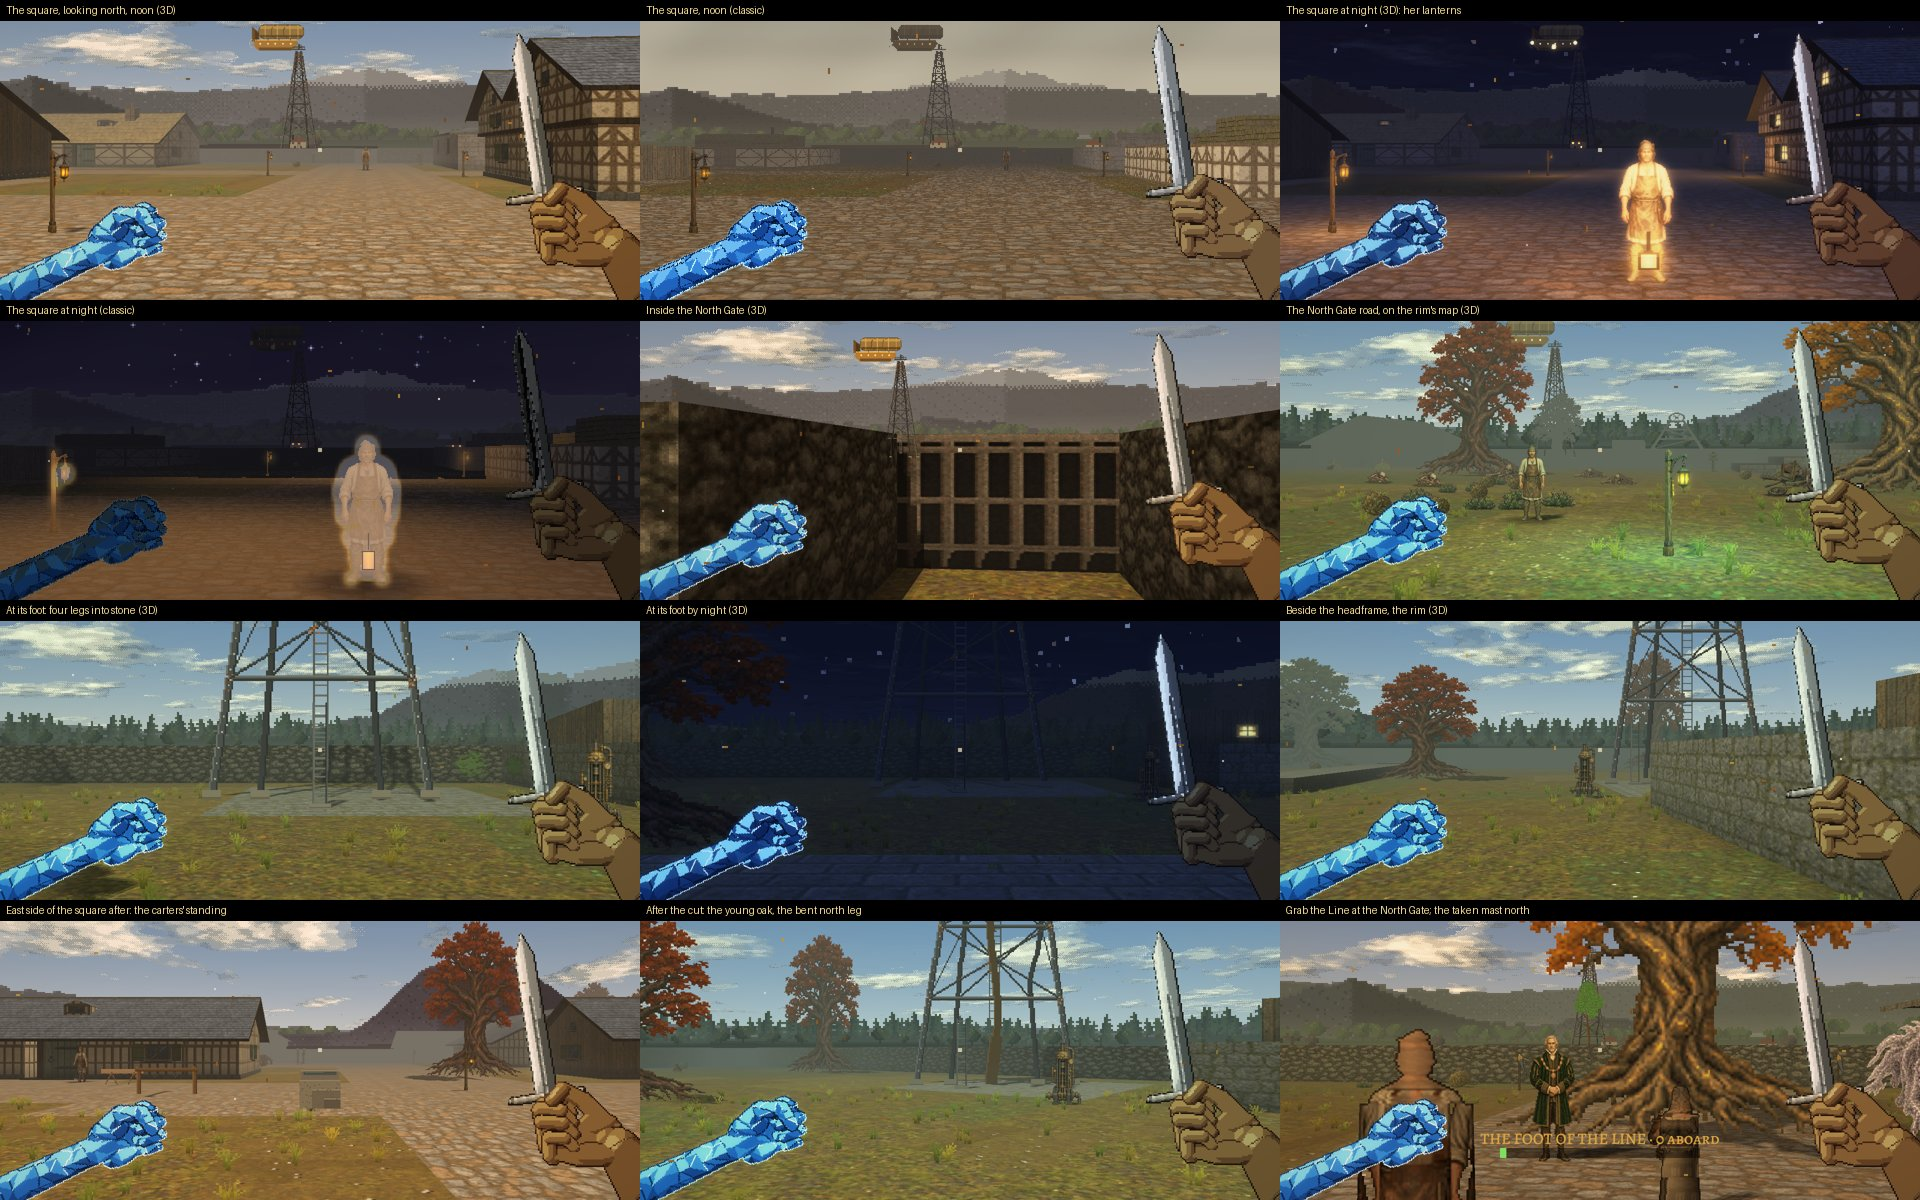
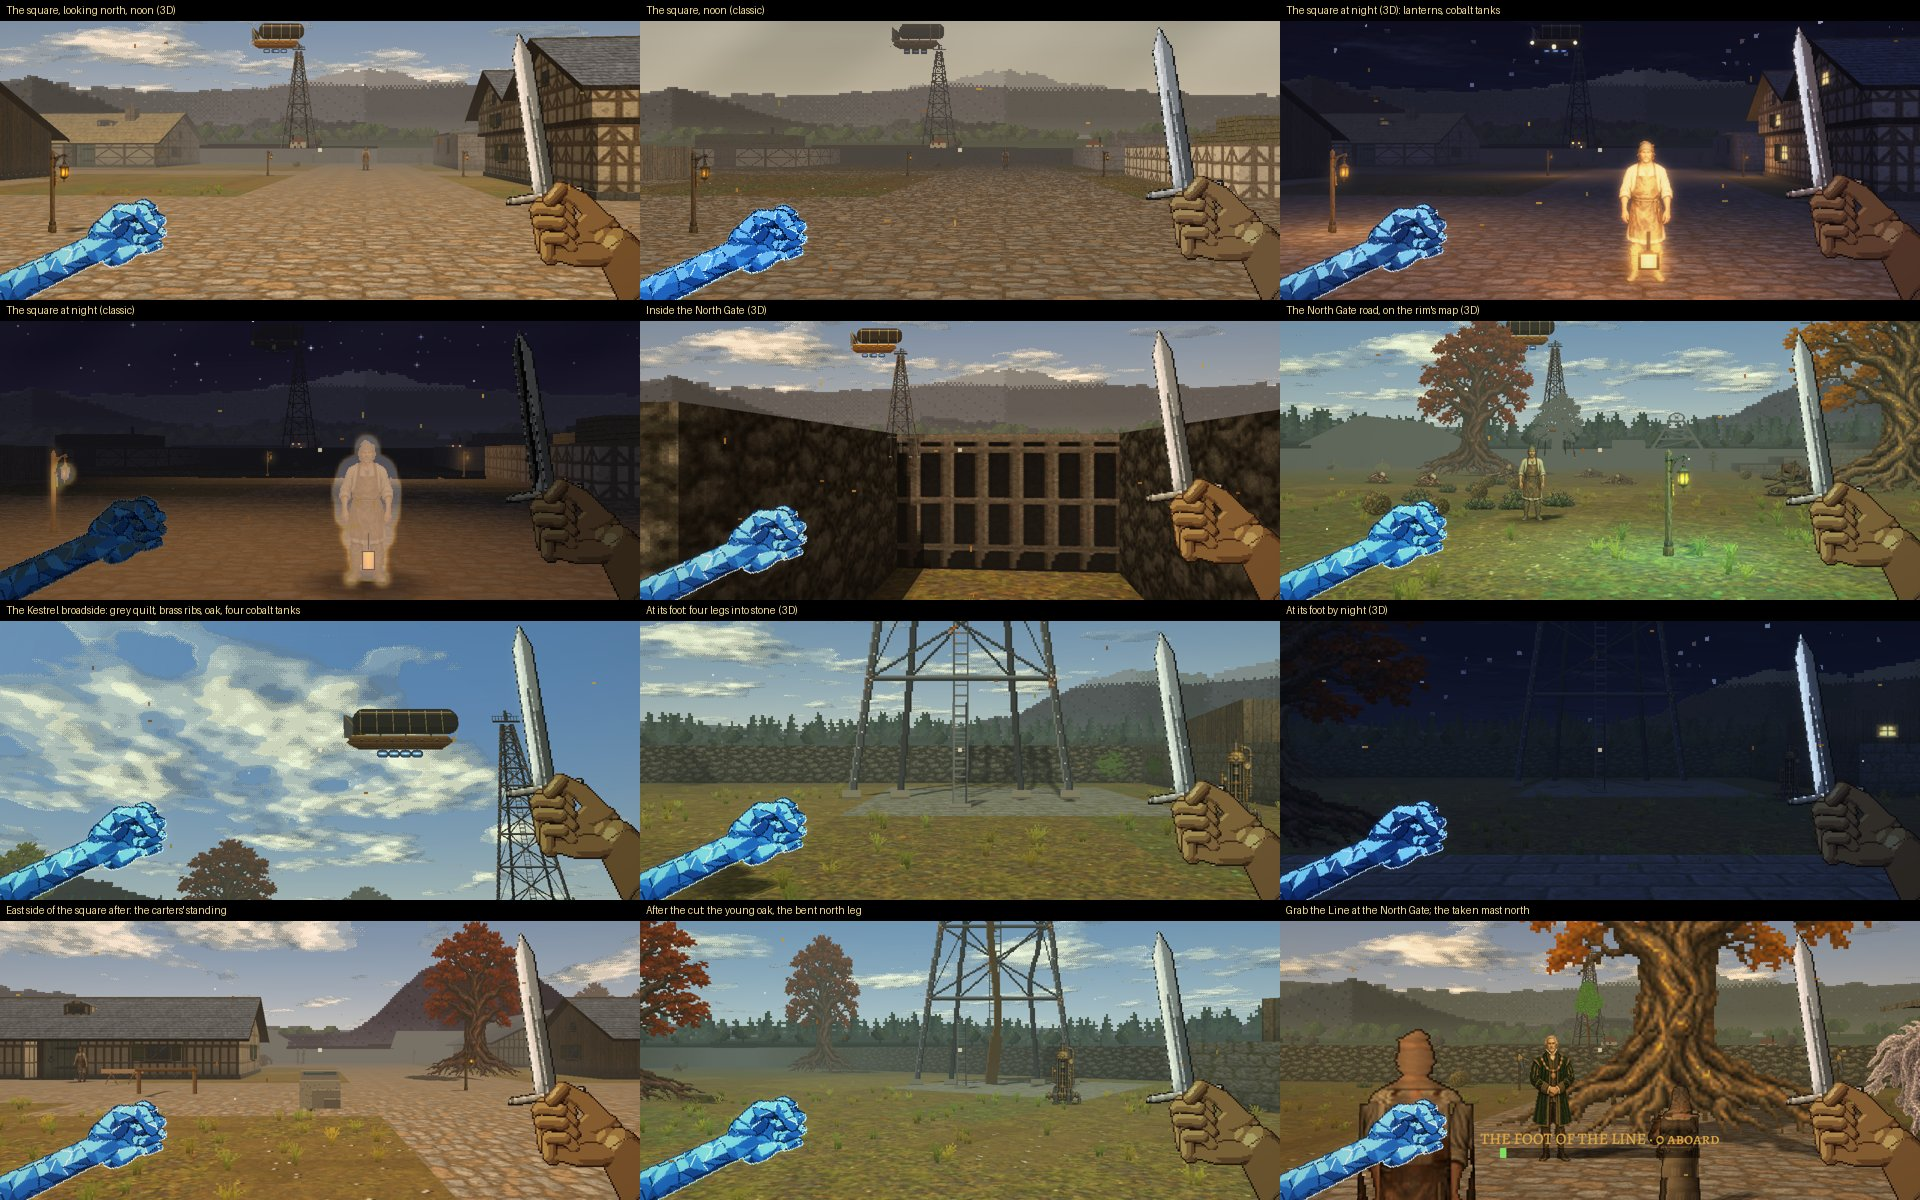
Phase 123: the moored Kestrel to Book One (ll. 674, 1321): a patched grey envelope, brass ribs, oak plank, four cobalt lift-tanks under the keel; the flyover's palette with her; the sheet and record
Claude-Session: https://claude.ai/code/session_01UK584LzooQWiw2H2iZPqku

diff --git a/js/smalllife.js b/js/smalllife.js
@@ -116,45 +116,79 @@ const SMALLLIFE = (() => {
     return out;
   }
   // moored airship, 144x72, bow to the right. view 0 bow-on .. 2 broadside .. 4 stern-on, 1/3 three-quarter.
+  // Book One l. 674: "small for a skyship, sixty feet perhaps, brass-ribbed and oak-planked, with a patched grey envelope
+  // and four lift-tanks slung beneath her keel glowing the faint cobalt of drift-glass"; l. 1321: "a grey sailcloth envelope
+  // that had been patched so often it looked like a quilt" (Phase 123). The quilt's greys come from a hash, never a draw.
   const KV = [{ phi: 90, stern: false }, { phi: 52, stern: false }, { phi: 0, stern: false }, { phi: 52, stern: true }, { phi: 90, stern: true }];
+  const hq = (x, y, s) => { let h = Math.imul(x | 0, 374761393) ^ Math.imul(y | 0, 668265263) ^ Math.imul(s | 0, 1442695041); h = Math.imul(h ^ (h >>> 13), 1274126177); return ((h ^ (h >>> 16)) >>> 0) / 4294967296; };
   function kestrelView(i) {
     const { phi, stern } = KV[i], co = Math.cos(phi * Math.PI / 180), si = Math.sin(phi * Math.PI / 180);
     return paint(144, 72, c => {
-      const cx = 72, TANK = '#7a6844', BAND = '#b09258', DK = '#3d311f', HULL = '#8a6a3a', HULL2 = '#5a4527', BRASS = '#d1ae62', GLOW = '#f1cd78';
+      const cx = 72, DK = '#2c2a28', CANVAS = '#7c7f82', CANVAS2 = '#55585b', OAK = '#6e4c2c', OAK2 = '#4a321d', OAKL = '#86603c', BRASS = '#c9a256', BRASSL = '#ead08a';
+      const COB = '#2f4f8f', COBL = '#5d8fdc', COBC = '#9cc4ff';
       const L = 130 * co + 26 * si;                                             // projected length of the whole ship
       const x0 = cx - L / 2, x1 = cx + L / 2;                                   // stern end .. bow end on screen
       const bowX = x1, sternX = x0;
-      // fins and propeller at the stern (behind the envelope when the bow is toward us)
+      // fins at the stern: grey canvas on brass (behind the envelope when the bow is toward us)
       const finTop = 14, finBot = 44;
       const finA = Math.max(5, 22 * co + 3);
       if (!(stern === false && phi >= 90)) {
-        poly(c, HULL2, [[sternX + finA, finTop + 8], [sternX + 2, finTop - 2], [sternX + 2, finBot - 2], [sternX + finA + 2, finBot]]);
+        poly(c, CANVAS2, [[sternX + finA, finTop + 8], [sternX + 2, finTop - 2], [sternX + 2, finBot - 2], [sternX + finA + 2, finBot]]);
         poly(c, DK, [[sternX + finA, finTop + 12], [sternX + finA * 0.5, finTop + 4], [sternX + finA * 0.5, 40], [sternX + finA, 42]]);
+        line(c, BRASS, sternX + 2, finTop - 2, sternX + finA + 2, finBot, 1);
       }
-      // three lift-tanks in a row along the keel, end caps rounder when seen end-on
+      // the envelope: the same span as ever, one long bag of grey sailcloth, patched like a quilt, with brass ribs over it
       const tankLen = 38 * co + 22 * si, gap = 3 * co;
-      for (let t = 0; t < 3; t++) {
-        const tx = sternX + 14 * co + t * (38 * co + gap) + (tankLen - 38 * co) * 0.5;
-        const w = Math.max(24, tankLen);
-        const px = clamp(tx, 2, 144 - w - 2);
-        c.fillStyle = DK; c.beginPath(); c.roundRect(px - 1, 7, w + 2, 30, 13); c.fill();
-        c.fillStyle = TANK; c.beginPath(); c.roundRect(px, 8, w, 28, 12); c.fill();
-        c.fillStyle = '#9a8656'; c.beginPath(); c.roundRect(px + 2, 10, w - 4, 6, 3); c.fill();
-        c.fillStyle = BAND; c.fillRect(px + w * 0.28, 8, 2, 28); c.fillRect(px + w * 0.7, 8, 2, 28);
-        c.fillStyle = 'rgba(30,22,10,0.45)'; c.beginPath(); c.roundRect(px + 2, 28, w - 4, 6, 3); c.fill();
+      let ex0 = 1e9, ex1 = -1e9;
+      for (let t = 0; t < 3; t++) { const tx = sternX + 14 * co + t * (38 * co + gap) + (tankLen - 38 * co) * 0.5, w = Math.max(24, tankLen), px = clamp(tx, 2, 144 - w - 2); ex0 = Math.min(ex0, px); ex1 = Math.max(ex1, px + w); }
+      const ew = ex1 - ex0;
+      c.fillStyle = DK; c.beginPath(); c.roundRect(ex0 - 1, 5, ew + 2, 32, 14); c.fill();
+      c.save(); c.beginPath(); c.roundRect(ex0, 6, ew, 30, 13); c.clip();
+      const PW = 7, PH = 5;
+      for (let y = 6, row = 0; y < 36; y += PH, row++) for (let x = Math.floor(ex0) - (row % 2 ? 3 : 0); x < ex1; x += PW) {
+        const k = hq(x, y, 31 + i), g = 96 + ((k * 34) | 0), w2 = k > 0.86 ? PW * 2 : PW;           // now and then a bigger patch
+        c.fillStyle = `rgb(${g - 8},${g - 3},${g + 5})`;                                             // cool grey sailcloth c.fillRect(x, y, w2, PH);
+        c.fillStyle = 'rgba(46,48,52,0.6)'; c.fillRect(x, y, 1, PH);                                  // the stitched seam
+        if (hq(x, y, 77 + i) > 0.8) { c.fillStyle = 'rgba(40,42,46,0.45)'; c.fillRect(x + 2, y + 2, 1, 1); c.fillRect(x + 4, y + 2, 1, 1); }   // stitches
       }
-      // gondola hull
+      for (let y = 6; y < 36; y += PH) { c.fillStyle = 'rgba(46,48,52,0.55)'; c.fillRect(ex0, y, ew, 1); }
+      c.fillStyle = 'rgba(255,255,255,0.10)'; c.fillRect(ex0, 7, ew, 6);                              // weathered: light above,
+      c.fillStyle = 'rgba(0,0,0,0.22)'; c.fillRect(ex0, 28, ew, 8);                                   // stained below
+      // brass ribs, thin and warm, catching the light on their upper part
+      const step = Math.max(9, 19 * co + 9 * si);
+      for (let x = ex0 + 7; x < ex1 - 5; x += step) { const xi = x | 0; c.fillStyle = '#9c8550'; c.fillRect(xi, 12, 1, 23); c.fillStyle = BRASSL; c.fillRect(xi, 7, 1, 5); }
+      c.fillStyle = BRASS; c.fillRect(ex0 + 6, 9, ew - 12, 1);
+      c.restore();
+      // the hull: oak plank, darker below, a brass rail along the top
       const hx0 = sternX + 8 * co, hx1 = bowX - 6 * co, hw = Math.max(26, hx1 - hx0);
       const hl = cx - hw / 2, hr = cx + hw / 2;
-      poly(c, HULL, [[hl + 6, 38], [hr - 4, 38], [hr + 4 * co, 46], [hr - 10, 60], [hl + 12, 60], [hl - 2 * co, 48]]);
-      poly(c, HULL2, [[hl + 12, 54], [hr - 10, 54], [hr - 12, 60], [hl + 14, 60]]);
+      const hullPts = [[hl + 6, 38], [hr - 4, 38], [hr + 4 * co, 46], [hr - 10, 56], [hl + 12, 56], [hl - 2 * co, 48]];
+      poly(c, OAK, hullPts);
+      c.save(); c.beginPath(); c.moveTo(hullPts[0][0], hullPts[0][1]); for (const p of hullPts.slice(1)) c.lineTo(p[0], p[1]); c.closePath(); c.clip();
+      for (let y = 40, row = 0; y < 57; y += 3, row++) {
+        c.fillStyle = OAK2; c.fillRect(hl - 4, y, hw + 10, 1);                                          // plank lines
+        for (let x = hl - 4 + (row % 2) * 9; x < hr + 6; x += 18) { c.fillStyle = OAK2; c.fillRect(x | 0, y, 1, 3); }   // butt joints
+        if (row === 0) { c.fillStyle = OAKL; c.fillRect(hl - 4, y + 1, hw + 10, 1); }
+      }
+      c.fillStyle = 'rgba(20,12,6,0.35)'; c.fillRect(hl - 4, 50, hw + 10, 8);
+      c.restore();
       c.fillStyle = BRASS; c.fillRect(hl + 4, 38, hr - hl - 6, 2);
       const ports = Math.max(2, Math.round(hw / 20));
-      for (let p = 0; p < ports; p++) { c.fillStyle = GLOW; c.fillRect(hl + 14 + p * ((hw - 30) / Math.max(1, ports - 1)), 45, 3, 3); }
-      for (let r = 0; r < 4; r++) line(c, DK, hl + 8 + r * hw / 4, 40, hl + 8 + r * hw / 4, 37, 1); // struts to the tanks
+      for (let p = 0; p < ports; p++) { c.fillStyle = '#2a3038'; c.fillRect(hl + 14 + p * ((hw - 30) / Math.max(1, ports - 1)), 44, 3, 3); c.fillStyle = BRASS; c.fillRect(hl + 14 + p * ((hw - 30) / Math.max(1, ports - 1)), 43, 3, 1); }
+      for (let r = 0; r < 4; r++) line(c, DK, hl + 8 + r * hw / 4, 40, hl + 8 + r * hw / 4, 37, 1); // stays to the envelope
+      // four lift-tanks slung beneath her keel, glowing the faint cobalt of drift-glass, staggered port and starboard
+      const dir = stern ? -1 : 1;
+      for (let t = 0; t < 4; t++) {
+        const a = (t - 1.5) * 13, b = (t % 2 ? -7 : 7), tx = cx + dir * a * co + b * si, tw = Math.max(6, 11 * co + 6 * si);
+        line(c, DK, tx, 55, tx, 58, 1);
+        c.fillStyle = DK; c.beginPath(); c.roundRect(tx - tw / 2 - 1, 57, tw + 2, 9, 4); c.fill();
+        c.fillStyle = COB; c.beginPath(); c.roundRect(tx - tw / 2, 58, tw, 7, 3); c.fill();
+        c.fillStyle = COBL; c.fillRect(tx - tw / 2 + 1, 60, tw - 2, 2);
+        c.fillStyle = COBC; c.fillRect(tx - 1, 60, 2, 2);
+      }
       // propeller disc on the stern
       if (stern || co > 0.2) { c.strokeStyle = 'rgba(200,190,160,0.5)'; c.lineWidth = 1; c.beginPath(); c.ellipse(sternX + 2, 46, 2 + 3 * si, 9, 0, 0, TAU); c.stroke(); }
-      // bow cone and the mooring line
+      // bow cone and the mooring line (where her line has always made fast)
       if (!stern) {
         poly(c, BRASS, [[bowX - 4, 40], [bowX + 1, 44], [bowX - 4, 48]]);
         line(c, '#cbbf9c', bowX, 44, bowX + (phi >= 90 ? 0 : 3), 33, 1);

diff --git a/js/mast123.js b/js/mast123.js
@@ -230,11 +230,11 @@ const MAST123 = (function () {
     Engine.addSprite('p123_trough', paintTrough());
     Engine.addSprite('p123_rail', paintRail());
     Engine.addSprite('p123_ladderfoot', paintLadderFoot());
-    // the Kestrel's ports burn at night: her lamps (js/smalllife.js draws her; the glow colour is its GLOW)
+    // the Kestrel's lift-tanks glow the faint cobalt of drift-glass (Book One l. 674): their bright cores give their own light
     for (let i = 0; i < 5; i++) {
       const sp = Engine.sprites['kestrel_m' + i]; if (!sp || sp.emit) continue;
       const m = new Uint8Array(sp.w * sp.h); let n = 0;
-      for (let k = 0; k < m.length; k++) { const p = sp.data[k]; if ((p >>> 24) < 100) continue; const r = p & 255, g = (p >> 8) & 255, b = (p >> 16) & 255; if (r > 225 && g > 190 && g < 220 && b > 100 && b < 140) { m[k] = 1; n++; } }
+      for (let k = 0; k < m.length; k++) { const p = sp.data[k]; if ((p >>> 24) < 100) continue; const r = p & 255, g = (p >> 8) & 255, b = (p >> 16) & 255; if (b > 200 && b > r + 60) { m[k] = 1; n++; } }   // the cobalt of her drift-glass tanks (js/smalllife.js)
       if (n && Engine.setEmissive) Engine.setEmissive('kestrel_m' + i, m);
       const L = lampsOf(Engine.sprites['kestrel_m' + i]);
       if (L) { Engine.addSprite('p123_kestrel_night' + i, L.sp); if (Engine.setEmissive) Engine.setEmissive('p123_kestrel_night' + i, L.m); }

diff --git a/index.html b/index.html
@@ -101,7 +101,7 @@
   <script src="js/upgrades.js?v=35"></script>
   <script src="js/weather.js?v=31"></script>
   <script src="js/gfx.js?v=31"></script>
-  <script src="js/sky.js?v=36"></script>
+  <script src="js/sky.js?v=37"></script>
   <script src="js/post.js?v=31"></script>
   <script src="js/water.js?v=31"></script>
   <script src="js/decals.js?v=33"></script>
@@ -125,7 +125,7 @@
   <script src="js/reading.js?v=31"></script>
   <script src="js/companions.js?v=32"></script>
   <script src="js/townsfolk.js?v=33"></script>
-  <script src="js/smalllife.js?v=33"></script>
+  <script src="js/smalllife.js?v=36"></script>
   <script src="js/firesmoke.js?v=32"></script>
   <script src="js/windbells.js?v=31"></script>
   <script src="js/gates.js?v=31"></script>
@@ -314,6 +314,6 @@
   <script src="js/cover105.js?v=5"></script>
   <script src="js/sharp107.js?v=3"></script>
   <script src="js/edges107.js?v=3"></script>
-  <script src="js/mast123.js?v=2"></script>
+  <script src="js/mast123.js?v=3"></script>
 </body>
 </html>

diff --git a/js/sky.js b/js/sky.js
@@ -480,8 +480,9 @@ const SKY = (() => {
   ];
   const SHIP_PAL = {
     o: [36, 26, 18], w: [90, 58, 32], W: [122, 82, 48], k: [46, 31, 18], r: [160, 120, 64], m: [74, 50, 32],
-    c: [200, 184, 150], C: [156, 140, 108], R: [126, 112, 86], p: [138, 42, 34], l: [60, 48, 36],
-    Y: [224, 192, 112], B: [176, 138, 60], D: [110, 82, 32], S: [58, 42, 24], g: [224, 176, 80], L: [255, 208, 112],
+    // Phase 123, to Book One l. 674: "a patched grey envelope and four lift-tanks ... glowing the faint cobalt of drift-glass"
+    c: [150, 154, 158], C: [118, 122, 126], R: [96, 100, 104], p: [138, 42, 34], l: [60, 48, 36],
+    Y: [120, 168, 236], B: [64, 104, 176], D: [40, 64, 120], S: [58, 42, 24], g: [224, 176, 80], L: [255, 208, 112],
   };
   const SW = SHIP_ART[0].length, SHH = SHIP_ART.length;
   const ship = { S: 0, dw: 0, dh: 0, r: null, g: null, b: null, a: null, lamps: [] };

diff --git a/sw.js b/sw.js
@@ -18,7 +18,7 @@
 //
 // <precache:begin>
 // Generated by tools/pwa/precache.js from index.html and the asset folders. Do not edit by hand; run the tool.
-const BUILD = "71ab5a4beeb5";
+const BUILD = "836e2226a34a";
 const MEDIA_BUILD = "2d9813dfeb89";
 const MEDIA_BYTES = 475230917;
 const CORE = [
@@ -308,7 +308,7 @@ const CORE = [
   "js/malting61.js?v=6",
   "js/manifest53.js?v=1",
   "js/maps.js?v=43",
-  "js/mast123.js?v=2",
+  "js/mast123.js?v=3",
   "js/max20.js?v=3",
   "js/meadow49.js?v=2",
   "js/mods.js?v=31",
@@ -372,8 +372,8 @@ const CORE = [
   "js/sheepwalk22.js?v=3",
   "js/sidequests.js?v=4",
   "js/skies14.js?v=2",
-  "js/sky.js?v=36",
-  "js/smalllife.js?v=33",
+  "js/sky.js?v=37",
+  "js/smalllife.js?v=36",
   "js/songcraft12.js?v=4",
   "js/souls91.js?v=4",
   "js/spatial-audio.js?v=31",

diff --git a/story/Game Layer/Phase 123 - The mooring mast, where the book has it.md b/story/Game Layer/Phase 123 - The mooring mast, where the book has it.md
@@ -273,3 +273,32 @@ smalllife, kestrel16 exit 0 ("ok" lines). Alone: presets 7, far14 14, cinematic2
 - In the classic view at night the ship's lanterns are a pixel or two from the square; in the 3D view they show.
 - The rim's pump (15.0, 5.5) stands just east of the mast's legs; it was not moved.
 - The Kestrel is not drawn over the North Gate during Grab the Line (she never was); only her line comes down.
+
+## 12. The Kestrel herself, to the book (after the Commander's review)
+
+Book One l. 674: "It was small for a skyship, sixty feet perhaps, brass-ribbed and oak-planked, with a patched grey
+envelope and four lift-tanks slung beneath her keel glowing the faint cobalt of drift-glass. Her name had been painted
+over on the bow, and then painted over again. She flew no colors." L. 1321: "She was sixty feet of brass rib and oak
+plank under a grey sailcloth envelope that had been patched so often it looked like a quilt, and four lift-tanks slung
+beneath her keel glowed the faint cobalt of drift-glass."
+
+The five moored views (js/smalllife.js `kestrelView`, kestrel_m0..m4) were tan and gold all over: the envelope drawn as
+three tan "tanks", gold ports. Repainted, same 144 x 72, same envelope span, same bow cone and mooring point (where her
+line makes fast) and same stern: the envelope one bag of cool grey sailcloth in quilt panels of slightly different greys
+with stitched seams and now and then a bigger patch (from a hash), lighter above and stained below; thin brass ribs
+over it, lit on their upper part; the hull oak plank with plank lines and butt joints, darker below, the brass rail;
+dark glass ports (no gold glow); four lift-tanks slung under the keel, staggered port and starboard so that broadside
+shows all four and bow-on two, cobalt with a brighter core. The cores are emissive (js/mast123.js), so after dark the
+tanks' cobalt is the glow she gives, with her three lanterns. Her painted-over name and her lack of colours are not
+drawn (no flag was ever drawn). The tanks hang a little lower than the old hull's keel (to row 66 of 72).
+
+Other drawings of her from outside:
+| Where | How drawn | Colours | Done |
+|---|---|---|---|
+| js/air93.js (the packet fallback), js/vigil96.js, js/heights92.js, js/rift100.js | reuse kestrel_m2 | now the book's | follow the repaint |
+| js/sky.js flyover (and js/light21.js's port of it) | pixel art in code: a hull with two masts under square sails | sails were cream, tanks yellow and gold | palette changed: the sails grey, the tank cobalt (three lines). Its shape (masts and square sails, no envelope) is not the book's: for the Commander |
+| js/maps.js "on her side in the willows", js/cantabile17.js mast-tower | the painted asset sprite `kestrel` (js/assets.js, an image) | tan envelope, as painted | not drawn in code: for the Commander |
+| the world map (img/map_reach.jpg etc.), logbook ink sketch (js/logmap.js M.kestrel) | painted image; monochrome ink | - | left |
+
+Suites on the final code: mast123 63 of 63 (the new check failed 2 of its 3 when committed first), smalllife, cantabile17
+40, vigil96 20, air93 19, sprites21 9, sky 8, pwa18 89; presets 7 alone. All pass.
